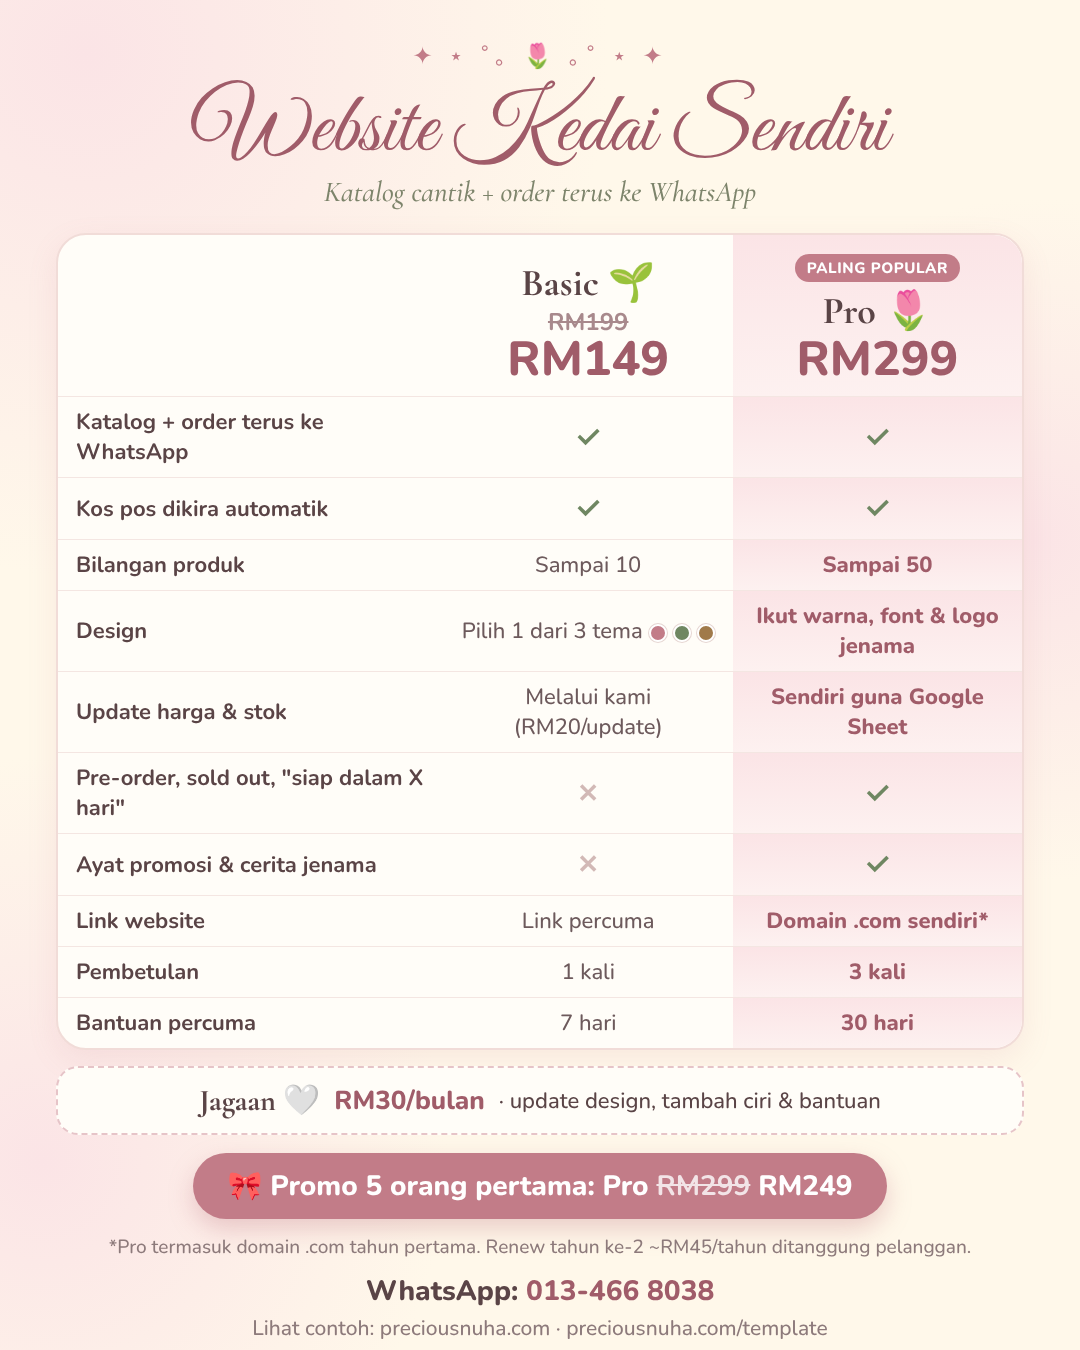
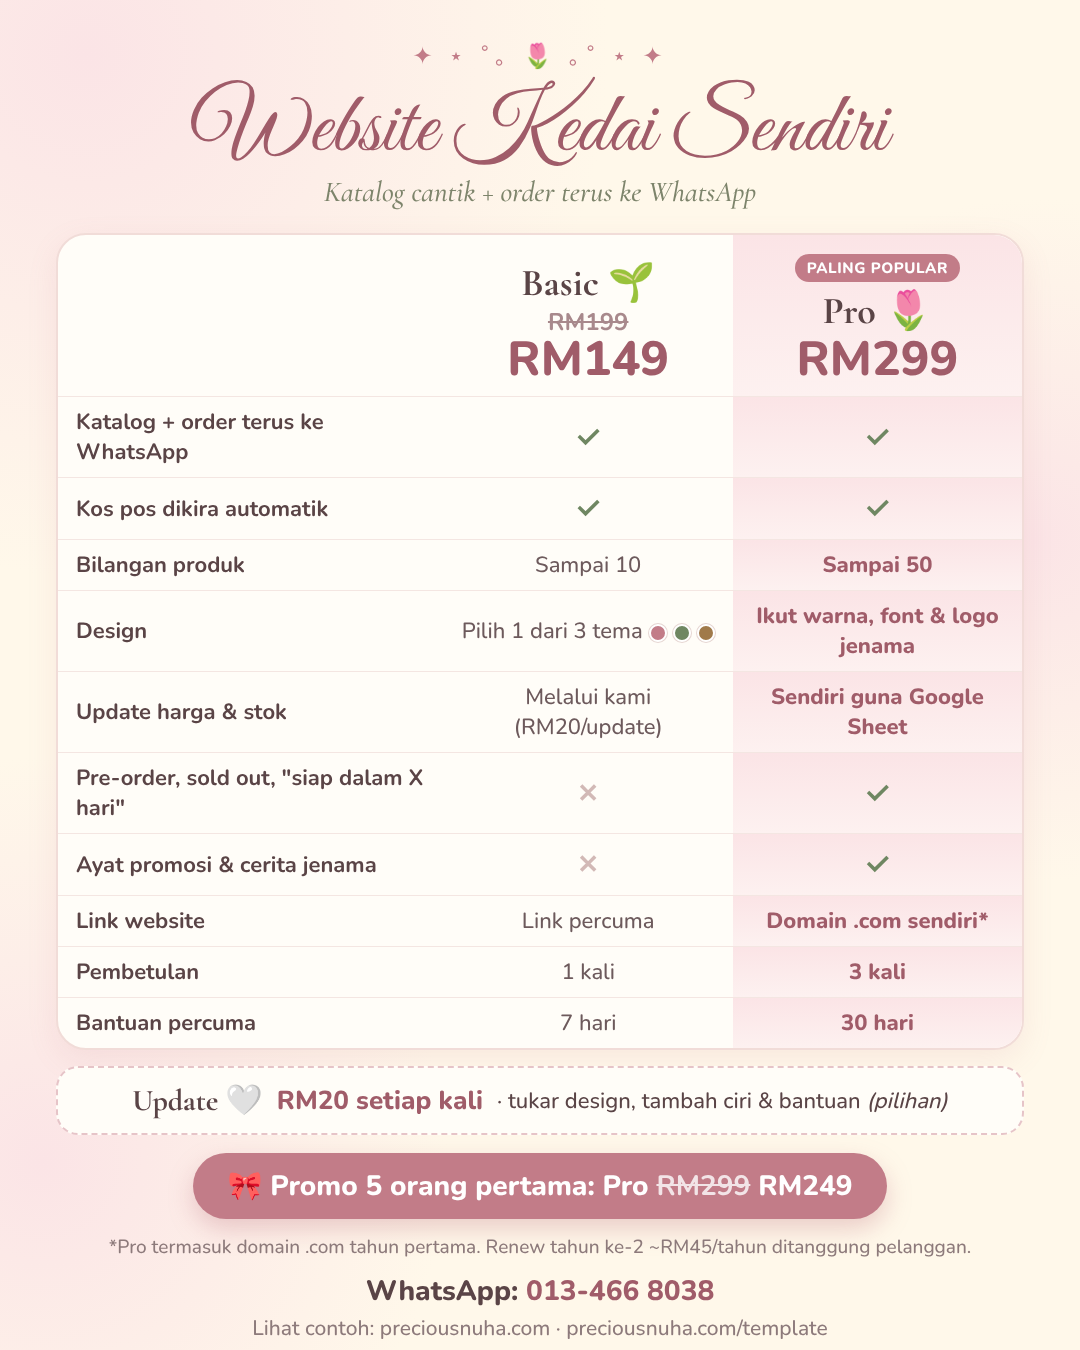
Replace the monthly Jagaan plan with an optional RM20 per update
Claude-Session: https://claude.ai/code/session_01TRPCWUAsJY6W9kDWZn4YYZ

Changed region(s): [[0.1222, 0.8089, 0.8861, 0.84]]

diff --git a/marketing/harga-website.html b/marketing/harga-website.html
@@ -78,7 +78,7 @@
     <tr><td>Bantuan percuma</td><td>7 hari</td><td class="pro strong">30 hari</td></tr>
   </table>
 
-  <div class="care"><b>Jagaan 🤍</b><span class="p">RM30/bulan</span><span>· update design, tambah ciri &amp; bantuan</span></div>
+  <div class="care"><b>Update 🤍</b><span class="p">RM20 setiap kali</span><span>· tukar design, tambah ciri &amp; bantuan <i>(pilihan)</i></span></div>
 
   <p class="promo">🎀 Promo 5 orang pertama: Pro <s>RM299</s> RM249</p>
   <p class="fine">*Pro termasuk domain .com tahun pertama. Renew tahun ke-2 ~RM45/tahun ditanggung pelanggan.</p>

diff --git a/template/PANDUAN.md b/template/PANDUAN.md
@@ -120,7 +120,7 @@ Buka demo dengan `?theme=` di hujung link:
 | Pembetulan | 1 kali | 3 kali |
 | Bantuan percuma | 7 hari | 30 hari |
 
-**Jagaan:** RM30/bulan (update design, tambah ciri, bantuan) atau RM20 setiap kali update.
+**Update (pilihan):** RM20 setiap kali (tukar design, tambah ciri, bantuan). Tiada caj bulanan.
 **Promo 5 pelanggan pertama:** Pro RM249, dengan syarat bagi testimoni.
 
 \*Renew domain tahun ke-2 ~RM45/tahun ditanggung pelanggan. Daftar domain dalam akaun pelanggan sendiri, beli .com sahaja, dan catat tarikh renew.
